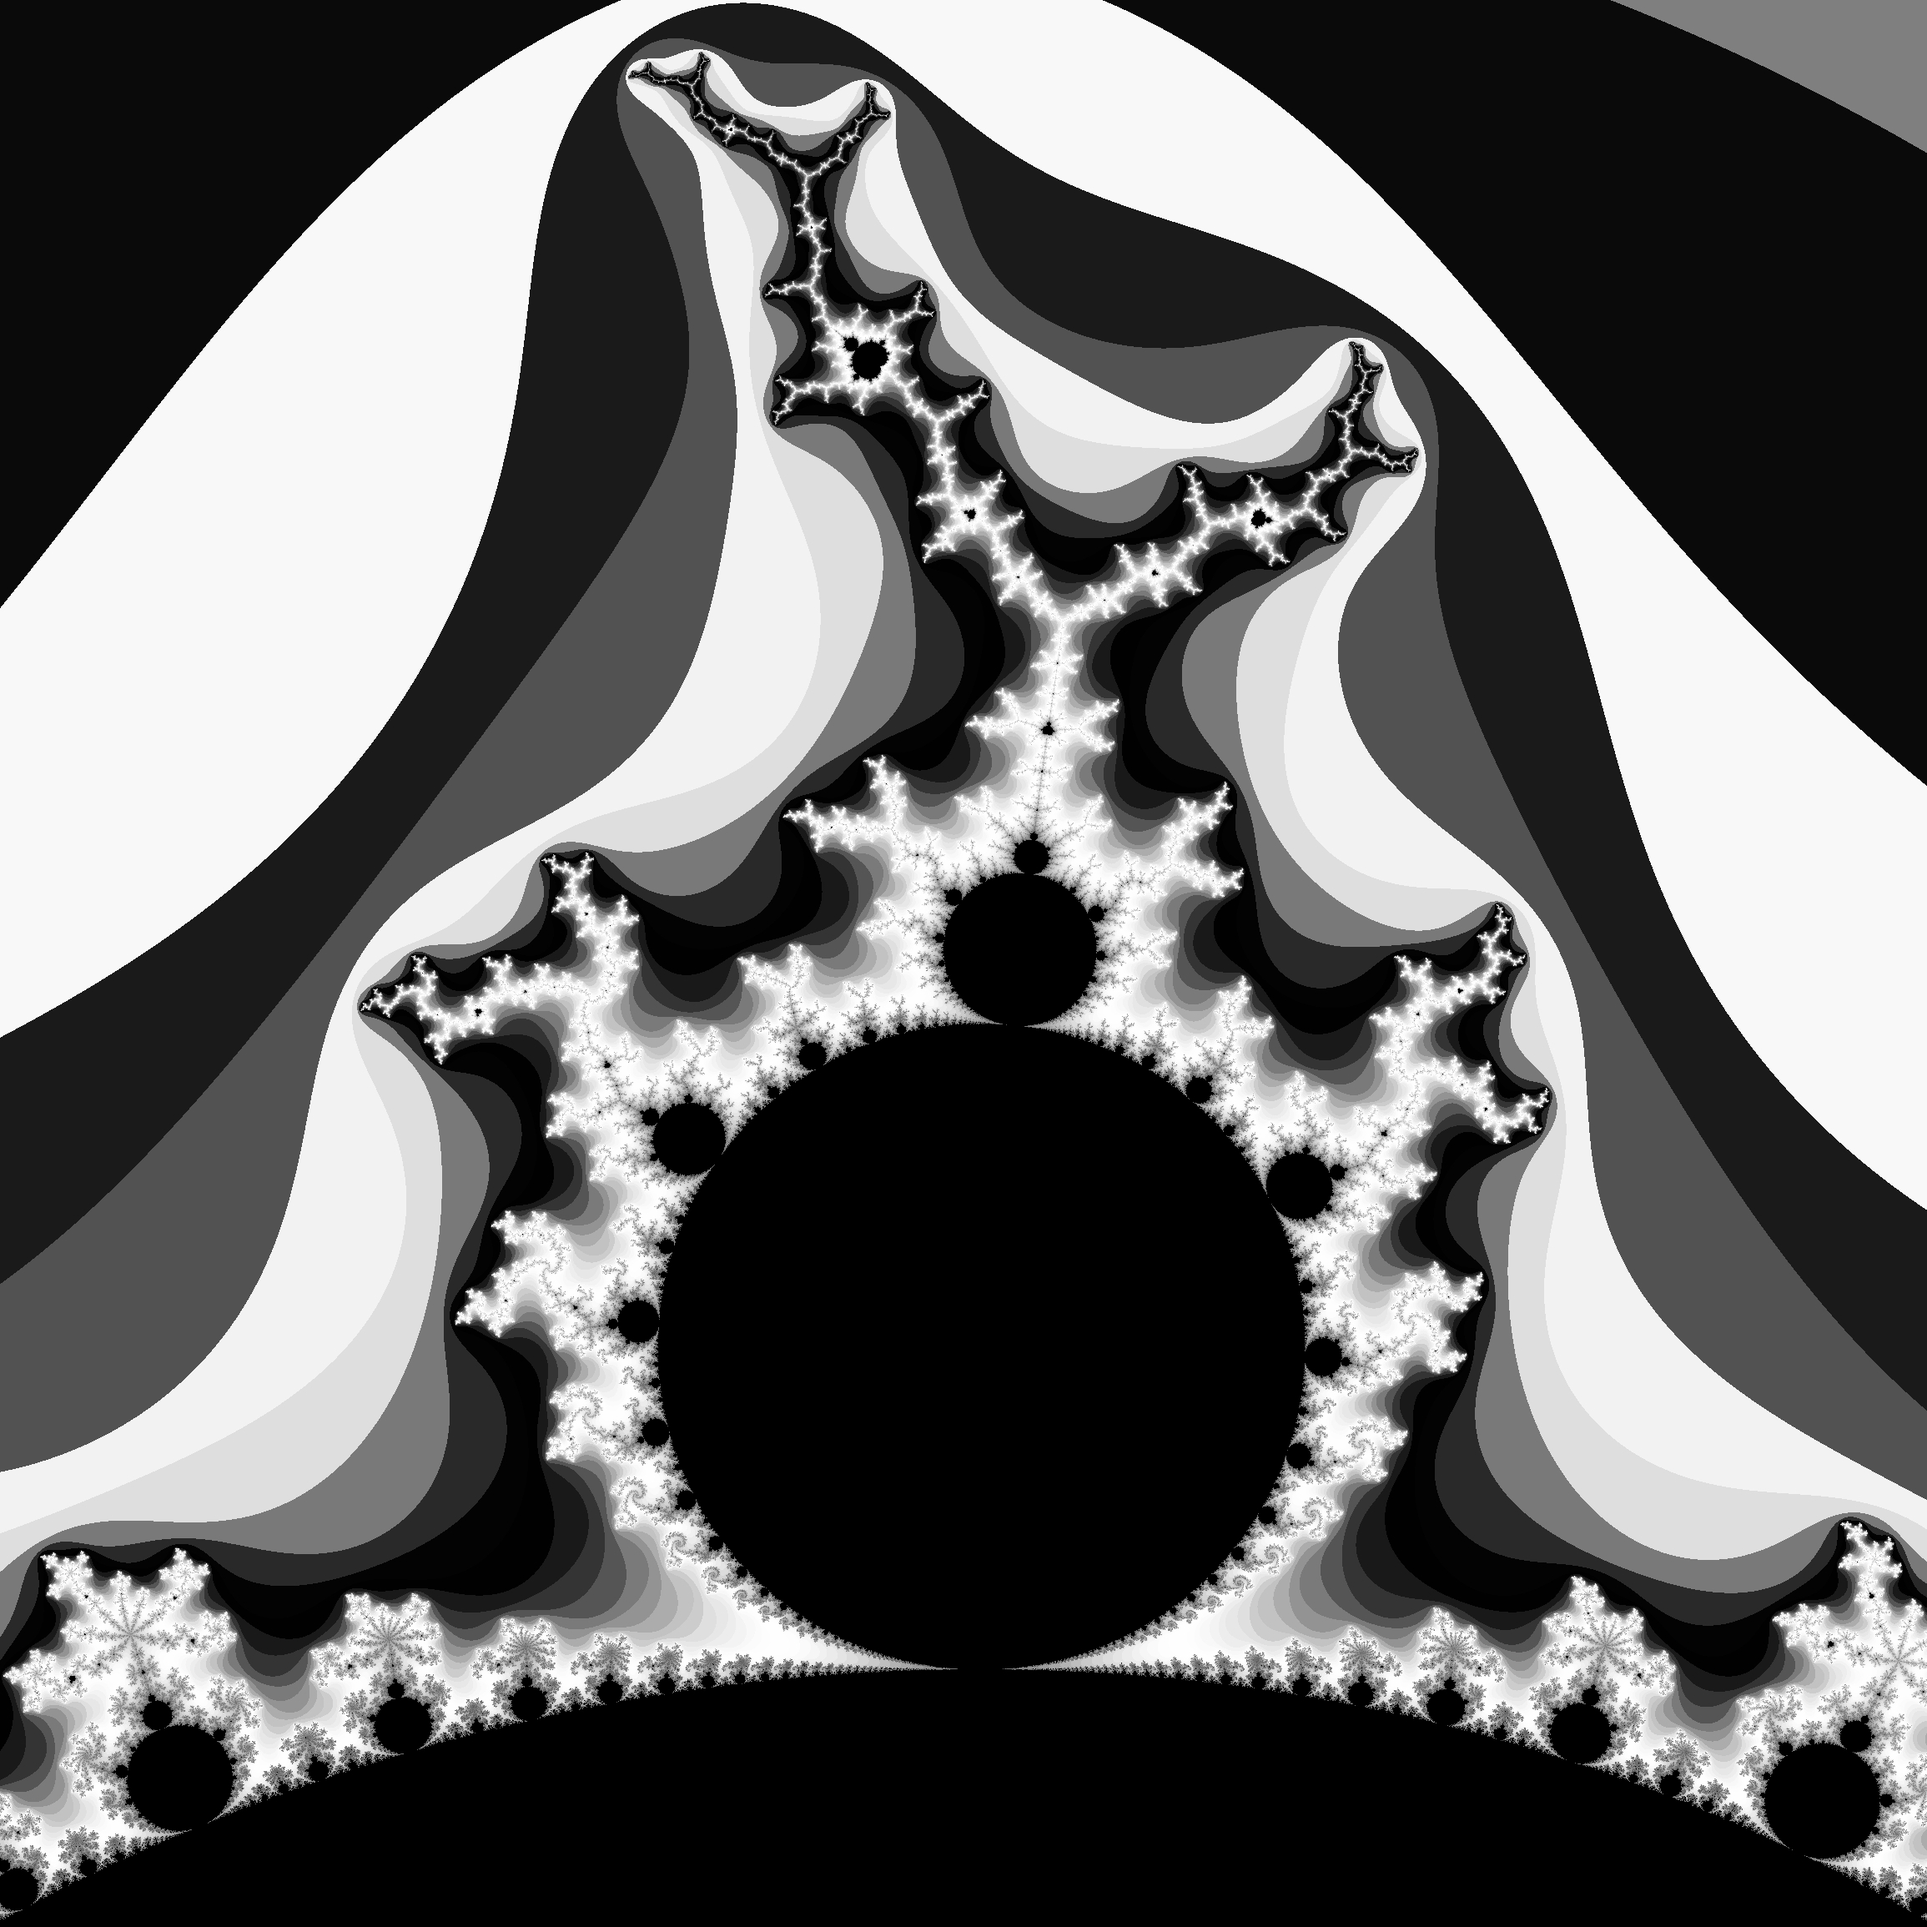
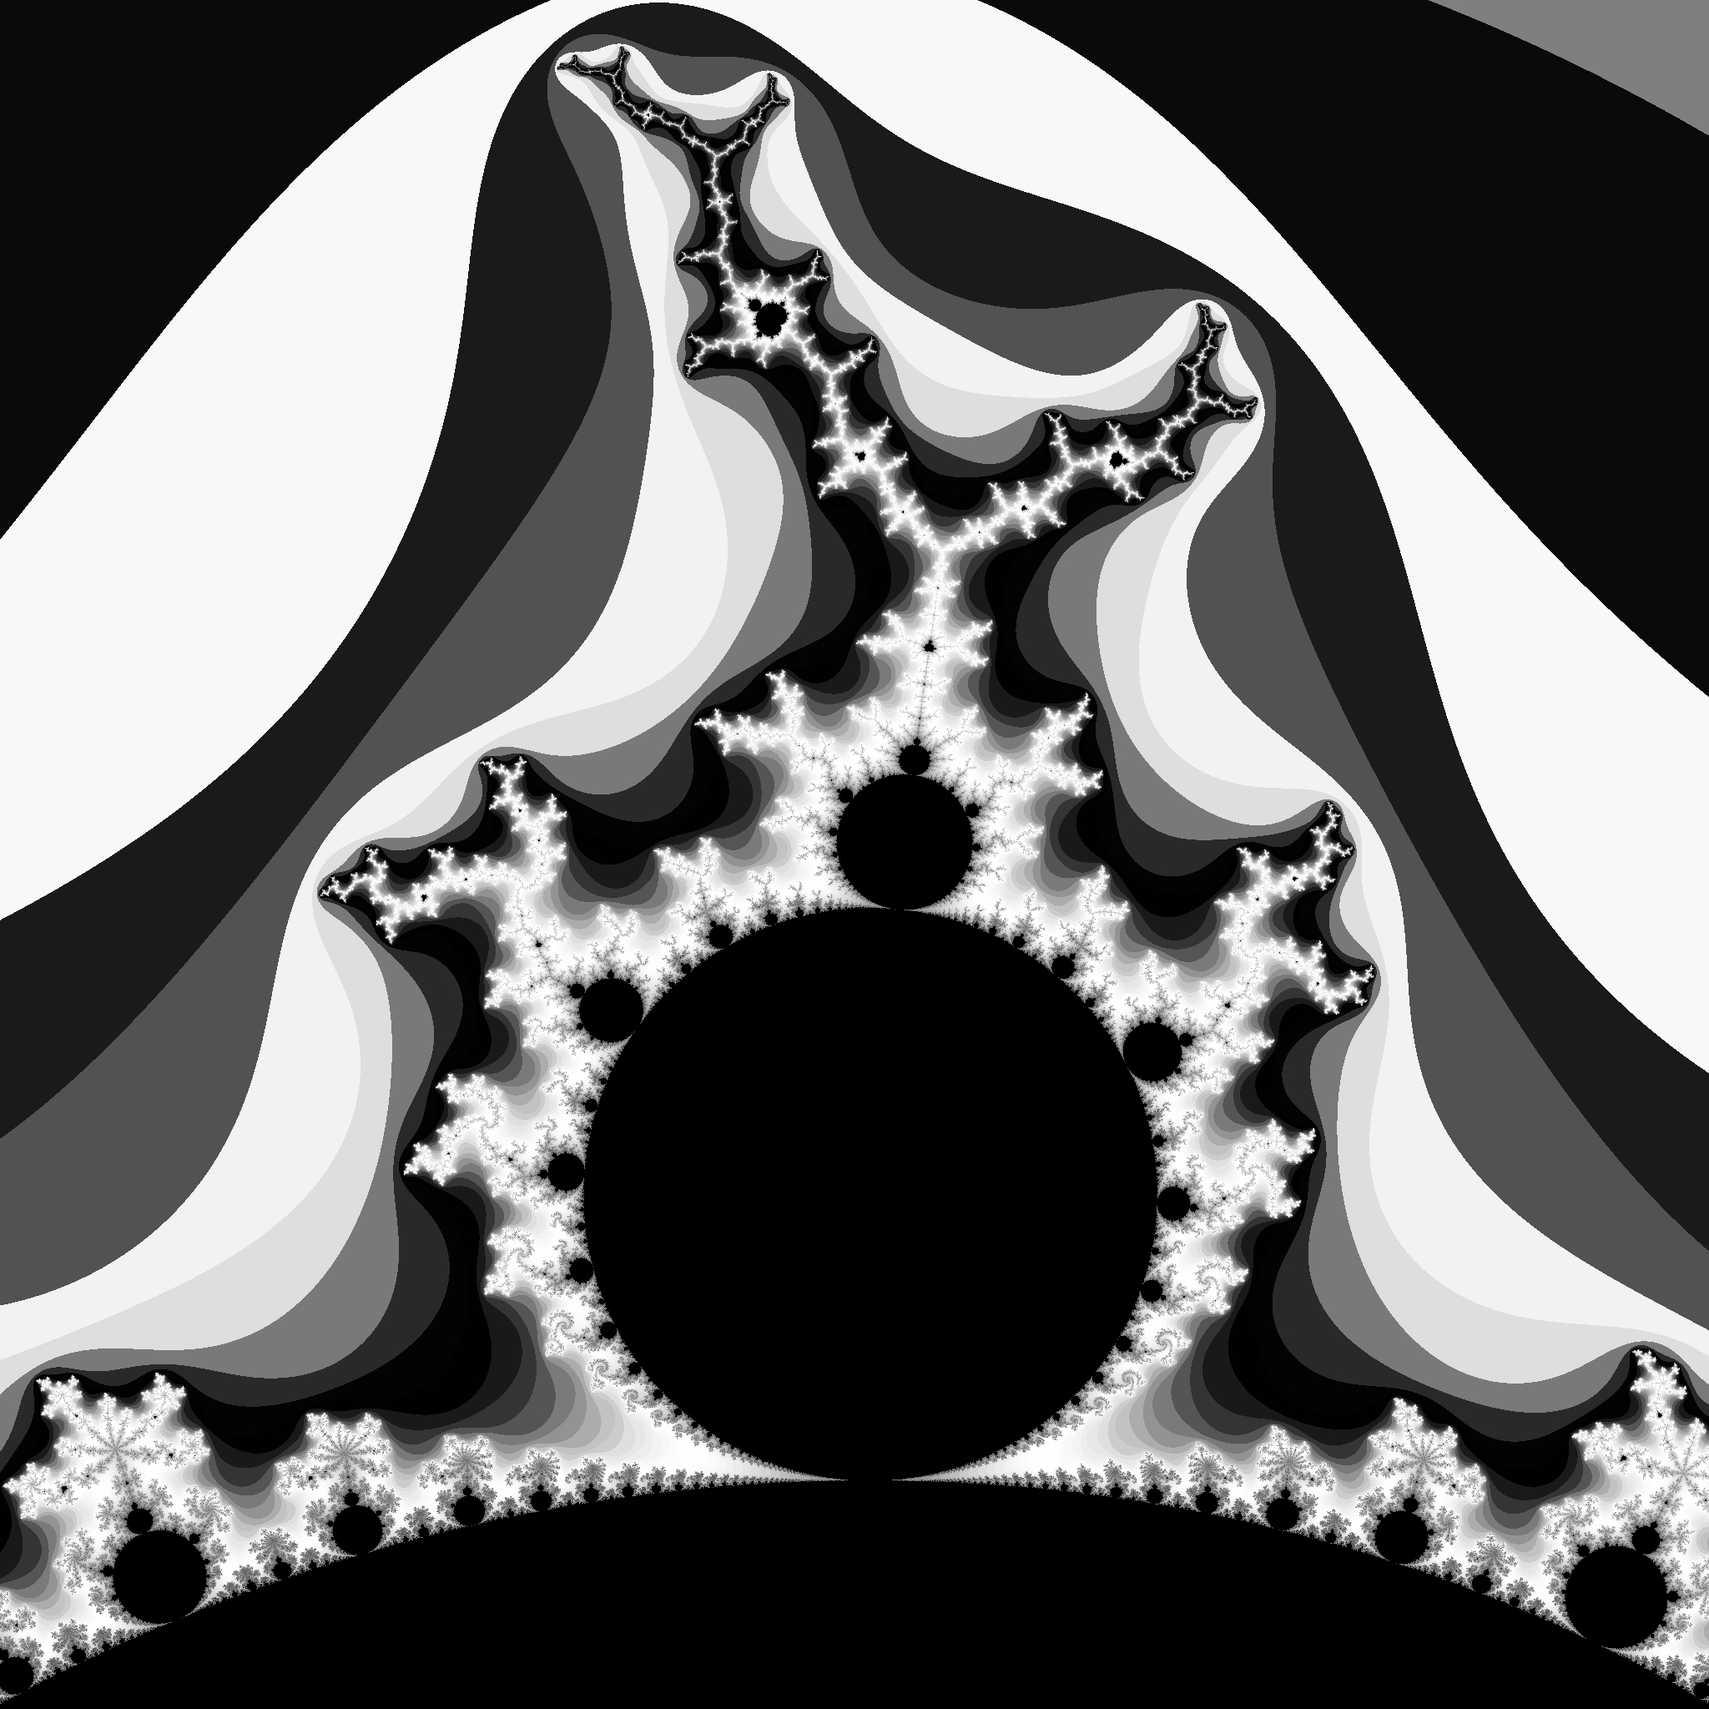
[CI SKIP] Rework template param to use pixels. Regenerate pics.

diff --git a/example/mandelbrot/mandelbrot.cpp b/example/mandelbrot/mandelbrot.cpp
@@ -326,14 +326,12 @@ public:
   const mandelbrot_config_numeric_type& y_lo() const { return my_y_lo; }
   const mandelbrot_config_numeric_type& y_hi() const { return my_y_hi; }
 
-  virtual int mandelbrot_fractional_resolution() const = 0;
-
   virtual const mandelbrot_config_numeric_type& step() const = 0;
 
   std::uint_fast32_t integral_width() const
   {
     const std::uint_fast32_t non_justified_width =
-      static_cast<std::uint_fast32_t>(my_width / this->step());
+      static_cast<std::uint_fast32_t>((static_cast<std::uint_fast32_t>((my_width * 2) / this->step()) + 1U) / 2U);
 
     return non_justified_width;
   }
@@ -341,7 +339,7 @@ public:
   std::uint_fast32_t integral_height() const
   {
     const std::uint_fast32_t non_justified_height =
-      static_cast<std::uint_fast32_t>(my_height / this->step());
+      static_cast<std::uint_fast32_t>((static_cast<std::uint_fast32_t>((my_height * 2) / this->step()) + 1U) / 2U);
 
     return non_justified_height;
   }
@@ -396,27 +394,19 @@ private:
 // method can be modified accordingly.
 template<typename NumericType,
          const std::uint_fast32_t MaxIterations,
-         const int MandelbrotFractionalResolution>
+         const std::uint_fast32_t PixelCountX>
 class mandelbrot_config final : public mandelbrot_config_base<NumericType, MaxIterations>
 {
 private:
   using base_class_type = mandelbrot_config_base<NumericType, MaxIterations>;
 
 public:
-  static_assert(MandelbrotFractionalResolution < -1,
-                "The Mandelbrot fractional resolution should be less than -1");
-
   mandelbrot_config(const typename base_class_type::mandelbrot_config_numeric_type& xl,
                     const typename base_class_type::mandelbrot_config_numeric_type& xh,
                     const typename base_class_type::mandelbrot_config_numeric_type& yl,
                     const typename base_class_type::mandelbrot_config_numeric_type& yh)
     : base_class_type(xl, xh, yl, yh),
-      my_step()
-  {
-    using std::ldexp;
-
-    my_step = ldexp(typename base_class_type::mandelbrot_config_numeric_type(1U), MandelbrotFractionalResolution);
-  }
+      my_step(base_class_type::my_width / PixelCountX) { }
 
   mandelbrot_config(const std::string& str_xl,
                     const std::string& str_xh,
@@ -426,12 +416,7 @@ public:
                       boost::lexical_cast<typename base_class_type::mandelbrot_config_numeric_type>(str_xh),
                       boost::lexical_cast<typename base_class_type::mandelbrot_config_numeric_type>(str_yl),
                       boost::lexical_cast<typename base_class_type::mandelbrot_config_numeric_type>(str_yh)),
-      my_step()
-  {
-    using std::ldexp;
-
-    my_step = ldexp(typename base_class_type::mandelbrot_config_numeric_type(1U), MandelbrotFractionalResolution);
-  }
+      my_step(base_class_type::my_width / PixelCountX) { }
 
   mandelbrot_config(const char* pc_xl,
                     const char* pc_xh,
@@ -441,15 +426,10 @@ public:
                       boost::lexical_cast<typename base_class_type::mandelbrot_config_numeric_type>(std::string(pc_xh)),
                       boost::lexical_cast<typename base_class_type::mandelbrot_config_numeric_type>(std::string(pc_yl)),
                       boost::lexical_cast<typename base_class_type::mandelbrot_config_numeric_type>(std::string(pc_yh))),
-      my_step()
-  {
-    using std::ldexp;
-
-    my_step = ldexp(typename base_class_type::mandelbrot_config_numeric_type(1U), MandelbrotFractionalResolution);
-  }
+      my_step(base_class_type::my_width / PixelCountX) { }
 
   mandelbrot_config(const mandelbrot_config& other)
-    : mandelbrot_config_base(other),
+    : base_class_type(other),
       my_step(other.my_step) { }
 
   virtual ~mandelbrot_config() = default;
@@ -468,8 +448,6 @@ public:
 
 private:
   typename base_class_type::mandelbrot_config_numeric_type my_step;
-
-  virtual int mandelbrot_fractional_resolution() const { return MandelbrotFractionalResolution; }
 
   virtual const typename base_class_type::mandelbrot_config_numeric_type& step() const { return my_step; }
 };
@@ -658,7 +636,7 @@ int main()
 
     // This is the classic full immage.
     using local_numeric_type      = boost::multiprecision::number<boost::multiprecision::BOOST_MULTIPRECISION_MANDELBROT_NUMBER_BACKEND_NAME<31>, boost::multiprecision::et_off>;
-    using mandelbrot_config_type  = boost::multiprecision::mandelbrot::mandelbrot_config<local_numeric_type, UINT32_C(2000), -11>;
+    using mandelbrot_config_type  = boost::multiprecision::mandelbrot::mandelbrot_config<local_numeric_type, 2000U, 4096U>;
     using mandelbrot_numeric_type = mandelbrot_config_type::mandelbrot_config_numeric_type;
 
 
@@ -672,7 +650,7 @@ int main()
 
     // This is a view of an upper part of the image (near the top of the classic full view).
     using local_numeric_type      = boost::multiprecision::number<boost::multiprecision::BOOST_MULTIPRECISION_MANDELBROT_NUMBER_BACKEND_NAME<31>, boost::multiprecision::et_off>;
-    using mandelbrot_config_type  = boost::multiprecision::mandelbrot::mandelbrot_config<local_numeric_type, UINT32_C(1000), -12>;
+    using mandelbrot_config_type  = boost::multiprecision::mandelbrot::mandelbrot_config<local_numeric_type, 2000U, 2048U>;
     using mandelbrot_numeric_type = mandelbrot_config_type::mandelbrot_config_numeric_type;
 
     const mandelbrot_numeric_type delta_half("0.282");
@@ -685,7 +663,7 @@ int main()
 
     // This is a fanning swirl image.
     using local_numeric_type      = boost::multiprecision::number<boost::multiprecision::BOOST_MULTIPRECISION_MANDELBROT_NUMBER_BACKEND_NAME<31>, boost::multiprecision::et_off>;
-    using mandelbrot_config_type  = boost::multiprecision::mandelbrot::mandelbrot_config<local_numeric_type, UINT32_C(2000), -22>;
+    using mandelbrot_config_type  = boost::multiprecision::mandelbrot::mandelbrot_config<local_numeric_type, 2000U, 2048U>;
     using mandelbrot_numeric_type = mandelbrot_config_type::mandelbrot_config_numeric_type;
 
     const mandelbrot_numeric_type delta_half("0.0002315");
@@ -698,7 +676,7 @@ int main()
 
     // This is a swirly seahorse image.
     using local_numeric_type      = boost::multiprecision::number<boost::multiprecision::BOOST_MULTIPRECISION_MANDELBROT_NUMBER_BACKEND_NAME<31>, boost::multiprecision::et_off>;
-    using mandelbrot_config_type  = boost::multiprecision::mandelbrot::mandelbrot_config<local_numeric_type, UINT32_C(2000), -48>;
+    using mandelbrot_config_type  = boost::multiprecision::mandelbrot::mandelbrot_config<local_numeric_type, 2000, 2048U>;
     using mandelbrot_numeric_type = mandelbrot_config_type::mandelbrot_config_numeric_type;
 
     const mandelbrot_numeric_type delta_half("1.76E-12");
@@ -711,7 +689,7 @@ int main()
 
     // This is a spiral image of branches.
     using local_numeric_type      = boost::multiprecision::number<boost::multiprecision::BOOST_MULTIPRECISION_MANDELBROT_NUMBER_BACKEND_NAME<31>, boost::multiprecision::et_off>;
-    using mandelbrot_config_type  = boost::multiprecision::mandelbrot::mandelbrot_config<local_numeric_type, UINT32_C(2000), -47>;
+    using mandelbrot_config_type  = boost::multiprecision::mandelbrot::mandelbrot_config<local_numeric_type, 2000U, 2048U>;
     using mandelbrot_numeric_type = mandelbrot_config_type::mandelbrot_config_numeric_type;
 
     const mandelbrot_numeric_type delta_half("4.2E-12");
@@ -724,7 +702,7 @@ int main()
 
     // This is an image from the seahorse valley.
     using local_numeric_type      = boost::multiprecision::number<boost::multiprecision::BOOST_MULTIPRECISION_MANDELBROT_NUMBER_BACKEND_NAME<31>, boost::multiprecision::et_off>;
-    using mandelbrot_config_type  = boost::multiprecision::mandelbrot::mandelbrot_config<local_numeric_type, UINT32_C(1000), -15>;
+    using mandelbrot_config_type  = boost::multiprecision::mandelbrot::mandelbrot_config<local_numeric_type, 2000U, 2048U>;
     using mandelbrot_numeric_type = mandelbrot_config_type::mandelbrot_config_numeric_type;
 
     const mandelbrot_numeric_type delta_half("0.024");
@@ -739,7 +717,7 @@ int main()
     // Note: Use 143 or more decimal digits for this iteration.
 
     using local_numeric_type      = boost::multiprecision::number<boost::multiprecision::BOOST_MULTIPRECISION_MANDELBROT_NUMBER_BACKEND_NAME<143>, boost::multiprecision::et_off>;
-    using mandelbrot_config_type  = boost::multiprecision::mandelbrot::mandelbrot_config<local_numeric_type, UINT32_C(2000), -365>;
+    using mandelbrot_config_type  = boost::multiprecision::mandelbrot::mandelbrot_config<local_numeric_type, 2000U, 2048U>;
     using mandelbrot_numeric_type = mandelbrot_config_type::mandelbrot_config_numeric_type;
 
     const mandelbrot_numeric_type delta_half("1.25E-107");
@@ -757,10 +735,10 @@ int main()
     // Note: Use 79 or more decimal digits for this iteration.
 
     using local_numeric_type      = boost::multiprecision::number<boost::multiprecision::BOOST_MULTIPRECISION_MANDELBROT_NUMBER_BACKEND_NAME<79>, boost::multiprecision::et_off>;
-    using mandelbrot_config_type  = boost::multiprecision::mandelbrot::mandelbrot_config<local_numeric_type, UINT32_C(10000), -191>;
+    using mandelbrot_config_type  = boost::multiprecision::mandelbrot::mandelbrot_config<local_numeric_type, 10000U, 2048U>;
     using mandelbrot_numeric_type = mandelbrot_config_type::mandelbrot_config_numeric_type;
 
-    const mandelbrot_numeric_type delta_half("2.15E-55");
+    const mandelbrot_numeric_type delta_half("2.20E-55");
     const mandelbrot_numeric_type cx        ("-1.295189082147777457017064177185681926706566460884888469217456");
     const mandelbrot_numeric_type cy        ("0.440936982678320138880903678356262612113214627431396203682661");
 
@@ -776,10 +754,10 @@ int main()
     // Note: Use 39 or more decimal digits for this iteration.
 
     using local_numeric_type      = boost::multiprecision::number<boost::multiprecision::BOOST_MULTIPRECISION_MANDELBROT_NUMBER_BACKEND_NAME<47>, boost::multiprecision::et_off>;
-    using mandelbrot_config_type  = boost::multiprecision::mandelbrot::mandelbrot_config<local_numeric_type, UINT32_C(20000), -91>;
+    using mandelbrot_config_type  = boost::multiprecision::mandelbrot::mandelbrot_config<local_numeric_type, 20000U, 2048U>;
     using mandelbrot_numeric_type = mandelbrot_config_type::mandelbrot_config_numeric_type;
 
-    const mandelbrot_numeric_type delta_half("3.0E-25");
+    const mandelbrot_numeric_type delta_half("3.1E-25");
     const mandelbrot_numeric_type cx        ("-0.743643887037158704752191506114774");
     const mandelbrot_numeric_type cy        ("0.131825904205311970493132056385139");
 
@@ -791,13 +769,14 @@ int main()
     const std::string str_filename = "images/mandelbrot_" + std::string("BOOST_MULTIPRECISION_MANDELBROT_IMAGE_INDEX_11_ZOOM_VERY_DEEP") + ".jpg";
 
     using local_numeric_type      = boost::multiprecision::number<boost::multiprecision::BOOST_MULTIPRECISION_MANDELBROT_NUMBER_BACKEND_NAME<351>, boost::multiprecision::et_off>;
-    using mandelbrot_config_type  = boost::multiprecision::mandelbrot::mandelbrot_config<local_numeric_type, UINT32_C(60000), -1040>;
+    using mandelbrot_config_type  = boost::multiprecision::mandelbrot::mandelbrot_config<local_numeric_type, 60000U, 1280U>;
     using mandelbrot_numeric_type = mandelbrot_config_type::mandelbrot_config_numeric_type;
 
     // At the moment, this is my personal best deep dive.
     // It features magnification of approximately 1e310,
     // which is 1 and 310 zeros. The iteration required
-    // for generating this image takes about 5-10 hours.
+    // for generating this image took about 10 hours
+    // running on 6 CPU cores on my machine.
 
     // TBD: Try to zoom even deeper with higher precision and more iterations.
     // The remarkable video here: https://www.youtube.com/watch?v=pCpLWbHVNhk
